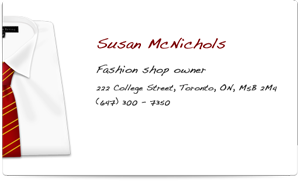
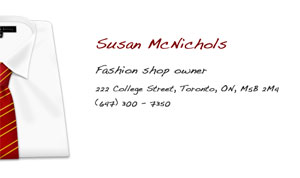
Updated validations in User model

diff --git a/public/stylesheets/master.css b/public/stylesheets/master.css
@@ -8,7 +8,7 @@ a {outline:none; text-decoration:none; color:#b73a13; cursor:pointer}
 
 img {border:0;}
 
-label {display:block; margin-bottom:9px; color:#5E543E; font-size:20px}
+label {display:block; margin-bottom:7px; font-size:18px}
 
 ul {list-style:none}
 
@@ -17,8 +17,8 @@ ul {list-style:none}
 
 
 /* .textbox {background:#f8f3dc; padding:10px; border:1px solid #e4d598; width:300px; -moz-box-shadow:0 3px 0 #f2ebc9 inset;} */
-.textbox {-moz-border-radius:8px; -moz-box-shadow: 0 3px 3px #706751 inset; background:#D2C8B2; border-color: -moz-use-text-color -moz-use-text-color #FFF8E8; border-style: none none solid; border-width: medium medium 2px;
-color: #453000; font-family: Helvetica,Arial,sans-serif; font-size: 20px; margin: 5px 0 0; padding: 15px; width:440px;}
+.textbox {-moz-border-radius:5px; -moz-box-shadow: 0 3px 3px #706751 inset; background:#D2C8B2; border-color: -moz-use-text-color -moz-use-text-color #FFF8E8; border-style: none none solid; border-width: medium medium 2px;
+color: #453000; font-family: Helvetica,Arial,sans-serif; font-size:17px; line-height:17px; margin: 5px 0 0; padding: 15px; width:440px;}
 
 .session_form {margin:60px auto; width:400px; padding:0 53px 50px; background:#fff; -moz-box-shadow:0 1px 2px #999; -moz-border-radius:5px;}
 .session_form_inner {margin-top:30px; background:#efe4ba; padding:32px; -moz-box-shadow:0 0 1px #444 inset; -moz-border-radius:5px;}
@@ -47,9 +47,9 @@ color: #453000; font-family: Helvetica,Arial,sans-serif; font-size: 20px; margin
 
 .card_name {color:#111; font-size:16px; margin-top:3px; display:inline-block}
 
-.red_btn {-moz-border-radius:4px; -moz-box-shadow: 0 1px 1px #F34217 inset, 0 1px 1px #332300; background: -moz-linear-gradient(center bottom , #690900 0%, #8F0E00 49%, #A41200 50%, #CF1900 100%) repeat scroll 0 0 #C40000;
+.red_btn {-moz-border-radius:4px; -moz-box-shadow: 0 1px 1px #F34217 inset, 0 1px 1px #332300; background: -moz-linear-gradient(center bottom , #690900 0%, #8F0E00 45%, #A41200 46%, #CF1900 100%) repeat scroll 0 0 #C40000;
 border: 1px solid #A1100A; color: #FFFFFF; cursor: pointer; display: inline-block; font-family: Helvetica,Arial,sans-serif; font-size:16px; font-weight:bold; margin-top: 10px; padding:10px 15px; text-shadow: 0 -1px 1px #250300;}
-.green_btn {-moz-border-radius:4px; -moz-box-shadow: 0 1px 1px #4a6405 inset, 0 1px 1px #4a6405; background: -moz-linear-gradient(center bottom , #8ab517 0%, #779d12 49%, #5e7a13 50%, #4d6708 100%) repeat scroll 0 0 #485d10;
+.green_btn {-moz-border-radius:4px; -moz-box-shadow: 0 1px 1px #4a6405 inset, 0 1px 1px #4a6405; background: -moz-linear-gradient(center bottom , #759817 0%, #739615 39%, #6c881f 60%, #637f19 100%) repeat scroll 0 0 #485d10;
 border: 1px solid #4a6405; color: #FFFFFF; cursor: pointer; display: inline-block; font-family: Helvetica,Arial,sans-serif; font-size:16px; font-weight:bold; margin-top: 10px; padding:10px 15px; text-shadow: 0 -1px 1px #250300;}
 
 .close_overlay {position:absolute; top:-12px; right:-12px; cursor:pointer;}
@@ -72,7 +72,7 @@ border: 1px solid #4a6405; color: #FFFFFF; cursor: pointer; display: inline-bloc
 #stage {padding:30px;}
 #mycards_list {margin-bottom:20px}
 
-#theme_gallery {width:800px; background:#fff; padding:10px; -moz-border-radius:5px; -moz-box-shadow:0 6px 46px #444; position:absolute; top:10%; left:50%; margin-left:-410px; z-index:8004;}
+#theme_gallery {width:800px; background:#fff; padding:10px; -moz-border-radius:5px; -moz-box-shadow:0 6px 46px #444; position:absolute; top:15%; left:50%; margin-left:-410px; z-index:8004;}
 #theme_gallery_inner {background:#E4E9D0; padding:20px; text-align:center; height:500px; overflow:auto;}
-#theme_gallery .theme_preview {margin:15px}
+#theme_gallery .theme_preview {margin:15px; -moz-box-shadow:0 1px 1px #555; -webkit-box-shadow:0 1px 1px #555;}
 #select_theme {margin-top:0;}

diff --git a/public/javascripts/jquery.tinyscrollbar.min.js b/public/javascripts/jquery.tinyscrollbar.min.js
@@ -1,0 +1,4 @@
+(function($){$.fn.tinyscrollbar=function(options){var defaults={axis:'y',wheel:40,scroll:true,size:'auto',sizethumb:'auto'};var options=$.extend(defaults,options);var oWrapper=$(this);var oViewport={obj:$('.viewport',this)};var oContent={obj:$('.overview',this)};var oScrollbar={obj:$('.scrollbar',this)};var oTrack={obj:$('.track',oScrollbar.obj)};var oThumb={obj:$('.thumb',oScrollbar.obj)};var sAxis=options.axis=='x',sDirection=sAxis?'left':'top',sSize=sAxis?'Width':'Height';var iScroll,iPosition={start:0,now:0},iMouse={};if(this.length>1){this.each(function(){$(this).tinyscrollbar(options)});return this;}
+this.initialize=function(){this.update();setEvents();};this.update=function(){iScroll=0;oViewport[options.axis]=oViewport.obj[0]['offset'+sSize];oContent[options.axis]=oContent.obj[0]['scroll'+sSize];oContent.ratio=oViewport[options.axis]/oContent[options.axis];oScrollbar.obj.toggleClass('disable',oContent.ratio>=1);oTrack[options.axis]=options.size=='auto'?oViewport[options.axis]:options.size;oThumb[options.axis]=Math.min(oTrack[options.axis],Math.max(0,(options.sizethumb=='auto'?(oTrack[options.axis]*oContent.ratio):options.sizethumb)));oScrollbar.ratio=options.sizethumb=='auto'?(oContent[options.axis]/oTrack[options.axis]):(oContent[options.axis]-oViewport[options.axis])/(oTrack[options.axis]-oThumb[options.axis]);setSize();};function setSize(){if(!sAxis)oContent.obj.removeAttr('style');oThumb.obj.removeAttr('style');iMouse['start']=oThumb.obj.offset()[sDirection];var sCssSize=sSize.toLowerCase();oScrollbar.obj.css(sCssSize,oTrack[options.axis]);oTrack.obj.css(sCssSize,oTrack[options.axis]);oThumb.obj.css(sCssSize,oThumb[options.axis]);};function setEvents(){oThumb.obj.bind('mousedown',start);oTrack.obj.bind('mouseup',drag);if(options.scroll&&this.addEventListener){oWrapper[0].addEventListener('DOMMouseScroll',wheel,false);oWrapper[0].addEventListener('mousewheel',wheel,false);}
+else if(options.scroll){oWrapper[0].onmousewheel=wheel;}};function start(oEvent){iMouse.start=sAxis?oEvent.pageX:oEvent.pageY;var oThumbDir=parseInt(oThumb.obj.css(sDirection));iPosition.start=oThumbDir=='auto'?0:oThumbDir;$(document).bind('mousemove',drag);$(document).bind('mouseup',end);oThumb.obj.bind('mouseup',end);return false;};function wheel(oEvent){if(!(oContent.ratio>=1)){oEvent=$.event.fix(oEvent||window.event);var iDelta=oEvent.wheelDelta?oEvent.wheelDelta/120:-oEvent.detail/3;iScroll-=iDelta*options.wheel;iScroll=Math.min((oContent[options.axis]-oViewport[options.axis]),Math.max(0,iScroll));oThumb.obj.css(sDirection,iScroll/oScrollbar.ratio);oContent.obj.css(sDirection,-iScroll);oEvent.preventDefault();};};function end(oEvent){$(document).unbind('mousemove',drag);$(document).unbind('mouseup',end);oThumb.obj.unbind('mouseup',end);return false;};function drag(oEvent){if(!(oContent.ratio>=1)){iPosition.now=Math.min((oTrack[options.axis]-oThumb[options.axis]),Math.max(0,(iPosition.start+((sAxis?oEvent.pageX:oEvent.pageY)-iMouse.start))));iScroll=iPosition.now*oScrollbar.ratio;oContent.obj.css(sDirection,-iScroll);oThumb.obj.css(sDirection,iPosition.now);;}
+return false;};return this.initialize();};})(jQuery);

diff --git a/public/stylesheets/themes/show_mask.css b/public/stylesheets/themes/show_mask.css
@@ -1,0 +1,8 @@
+#card_background_wrapper {padding:0 0 15px 0}
+#card {background:#fff url(../../images/show_mask/mask.png) no-repeat left 25px}
+#card_info {padding-top:53px; width:326px; float:right;}
+#name {font-family:Junction; font-size:22px}
+#title {font-style:oblique; margin-bottom:25px; font-size:14px; color:#555}
+
+#contact_info li {color:#555; margin:10px 0; font-style:oblique;}
+a {color:#555}

diff --git a/test/unit/user_test.rb b/test/unit/user_test.rb
@@ -1,8 +1,42 @@
 require 'test_helper'
 
 class UserTest < ActiveSupport::TestCase
-  # Replace this with your real tests.
-  test "the truth" do
-    assert true
+  
+  test "should not save user if not provided required information" do
+    
+    user = User.new
+    assert !user.save
+    
   end
+  
+  test "should not save user if username is not available" do
+    
+    user1 = User.new(:first_name => 'First', :last_name => 'Last', :username => 'TRIVEKTOR', :email => 'TRIVEKTOR@GMAIL.COM', :password => 'password')
+    user1.save
+    
+    user2 = User.new(:first_name => 'First', :last_name => 'Last', :username => 'TRIVEKTOR', :email => 'TRIVEKTOR2@GMAIL.COM', :password => 'password')
+    assert !user2.save
+    
+  end
+  
+  test "should not save user if email is not available" do
+    
+    user1 = User.new(:first_name => 'First', :last_name => 'Last', :username => 'TRIVEKTOR1', :email => 'TRIVEKTOR@GMAIL.COM', :password => 'password')
+    user1.save
+    
+    user2 = User.new(:first_name => 'First', :last_name => 'Last', :username => 'TRIVEKTOR2', :email => 'TRIVEKTOR@GMAIL.COM', :password => 'password')
+    assert !user2.save
+    
+  end
+  
+  test "should downcase username and email before save" do
+    
+    user = User.new(:first_name => 'First', :last_name => 'Last', :username => 'TRIVEKTOR', :email => 'TRIVEKTOR@GMAIL.COM', :password => 'password')
+    user.save
+    
+    assert_equal 'trivektor@gmail.com', user.email
+    assert_equal 'trivektor', user.username
+    
+  end
+  
 end

diff --git a/app/models/user.rb b/app/models/user.rb
@@ -7,7 +7,10 @@ class User < ActiveRecord::Base
   
   validates_presence_of :first_name, :message => ' is required'
   validates_presence_of :last_name, :message => ' is required'
+  validates_length_of :username, :minimum => 4, :message => ' is too short (must be at least 4 characters)'
+  validates_uniqueness_of :username, :message => ' is not available', :case_sensitive => false
   validates :email, :email => {:message => ' is not valid'}
+  validates_uniqueness_of :email, :message => ' is already in use', :case_sensitive => false
   validates_length_of :password, :minimum => 4, :maximum => 10, :message => ' is too short (must be between 4 and 10 characters)'
   
   acts_as_authentic do |config|
@@ -17,6 +20,15 @@ class User < ActiveRecord::Base
      config.validate_password_field = false
      config.login_field = :email
      config.validate_login_field = false
+  end
+  
+  before_save :downcase
+  
+  private
+  
+  def downcase
+    self.username = self.username.downcase
+    self.email = self.email.downcase
   end
   
 end

diff --git a/app/controllers/business_cards_controller.rb b/app/controllers/business_cards_controller.rb
@@ -54,7 +54,7 @@ class BusinessCardsController < ApplicationController
   def show
     @business_card = BusinessCard.find_by_url params[:url]
     
-    @theme = Theme.find_by_slug :photographer
+    @theme = Theme.find_by_slug :show_mask
     
     render :layout => 'business_card'
   end

diff --git a/test/factories.rb b/test/factories.rb
@@ -4,6 +4,7 @@ Factory.define :user do |user|
   user.first_name 'First'
   user.last_name 'Last'
   user.email 'test@email.com'
+  user.username 'username'
   user.password 'password'
 end
 
